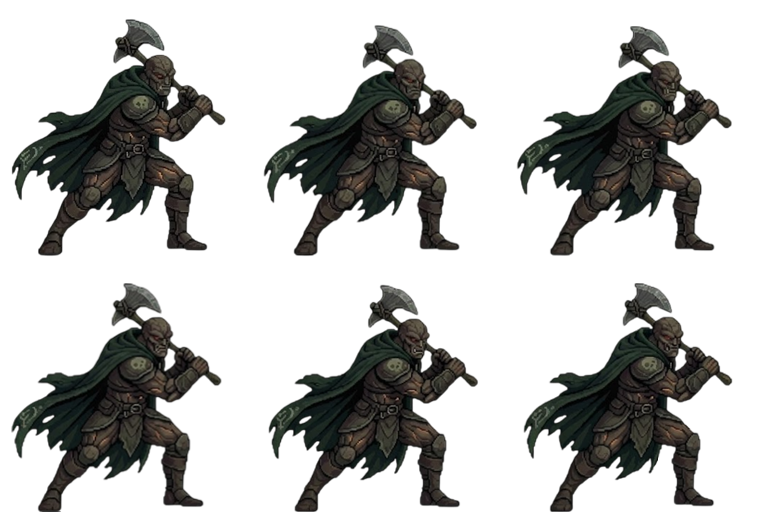
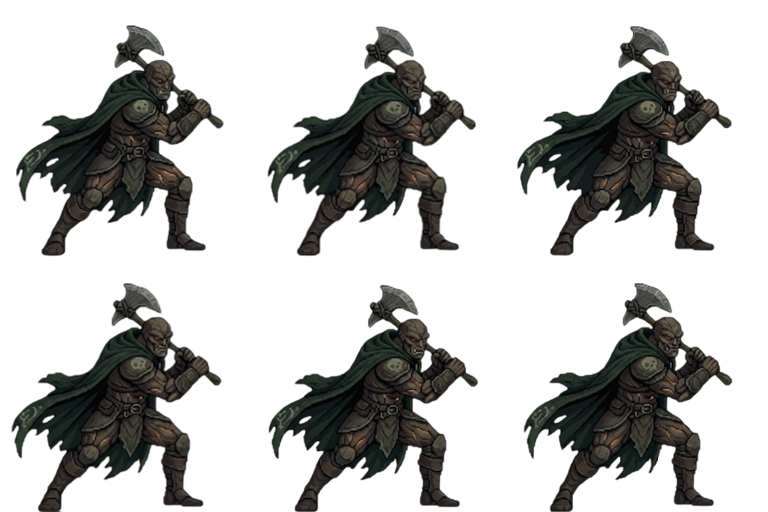
update

Changed region(s): [[0.0, 0.0312, 0.3125, 0.5], [0.3438, 0.0625, 0.625, 0.5], [0.5, 0.0312, 0.5312, 0.0625]]

diff --git a/src/scenes/BattleScene.ts b/src/scenes/BattleScene.ts
@@ -2753,9 +2753,6 @@ private handleTaintedSkill() {
 
   const weaknessText = this.getEnemyWeaknessText();
 
-  this.animatePlayerAttack('skill');
-  this.damageEnemy(damage);
-
   this.taintedCorruptionTurns = Math.max(this.taintedCorruptionTurns, 2);
   this.taintedCorruptionDamageBonus = Math.max(this.taintedCorruptionDamageBonus, 0.12);
   this.taintedCorruptionJustApplied = true;
@@ -2768,7 +2765,10 @@ private handleTaintedSkill() {
       ? `Проклятый рывок!\nСкверна усиливает удар.\nТы теряешь ${hpCost} HP и наносишь ${damage} урона.${weaknessText}${corruptionText}`
       : `Проклятый рывок!\nТы теряешь ${hpCost} HP и наносишь ${damage} урона.${weaknessText}${corruptionText}`;
 
-  this.afterPlayerAttack(playerActionText);
+  this.animatePlayerAttack('skill', () => {
+    this.damageEnemy(damage);
+    this.afterPlayerAttack(playerActionText);
+  });
 }
 
 private handleStonebornSkill() {
@@ -2856,9 +2856,6 @@ private handleDemonSkill() {
 
   const weaknessText = this.getEnemyWeaknessText();
 
-  this.animatePlayerAttack('skill');
-  this.damageEnemy(damage);
-
   this.demonHellfireBurnTurns = Math.max(this.demonHellfireBurnTurns, 2);
   this.demonHellfireBurnDamage = Math.max(
     this.demonHellfireBurnDamage,
@@ -2873,7 +2870,10 @@ private handleDemonSkill() {
       ? `Кровавое пламя!\nДемон теряет ${hpCost} HP и наносит ${damage} урона.${weaknessText}\nНизкое HP усилило пламя.${burnText}`
       : `Кровавое пламя!\nДемон теряет ${hpCost} HP и наносит ${damage} урона.${weaknessText}${burnText}`;
 
-  this.afterPlayerAttack(playerActionText);
+  this.animatePlayerAttack('skill', () => {
+    this.damageEnemy(damage);
+    this.afterPlayerAttack(playerActionText);
+  });
 }
   private handlePowerAttack() {
     if (this.isBattleEnded || this.isBusy) {
@@ -2914,14 +2914,14 @@ private handleDemonSkill() {
     const finalDamage = isCrit ? Math.floor(damage * this.getPlayerCritMultiplier(1.5)) : damage;
     const treeCritText = this.applyCriticalTreeEffects(isCrit, finalDamage);
 
-    this.animatePlayerAttack('power');
-    this.damageEnemy(finalDamage);
-
     const playerActionText = isCrit
       ? `Критический сильный удар! Ты наносишь ${finalDamage} урона.${treeCritText}`
       : `Ты наносишь сильный удар на ${finalDamage} урона.`;
 
-    this.afterPlayerAttack(playerActionText);
+    this.animatePlayerAttack('power', () => {
+      this.damageEnemy(finalDamage);
+      this.afterPlayerAttack(playerActionText);
+    });
   }
 
   private handleDefend() {
@@ -5187,8 +5187,9 @@ private renderEnemyEffectChips() {
     };
   }
 
-  private async playPlayerAttackAnimation(kind: 'normal' | 'power' | 'skill' = 'normal') {
+  private async playPlayerAttackAnimation(kind: 'normal' | 'power' | 'skill' = 'normal', onImpact?: () => void) {
     if (!this.playerCard || !this.enemyCard || this.isBattleEnded || this.combatAnimationLocked) {
+      onImpact?.();
       return;
     }
 
@@ -5208,6 +5209,60 @@ private renderEnemyEffectChips() {
       this.stonebornSprite.once(Phaser.Animations.Events.ANIMATION_COMPLETE, () => {
         this.stonebornSprite?.play('stoneborn_idle');
       });
+
+      const teleportLocalX = enemyBase.x - playerBase.x - 25;
+
+      this.tweens.add({
+        targets: this.playerCard,
+        angle: kind === 'power' ? 3 : 2,
+        duration: 80,
+        yoyo: true,
+        ease: 'Sine.easeInOut',
+      });
+
+      await new Promise<void>(resolve => {
+        this.tweens.add({
+          targets: this.stonebornSprite,
+          x: teleportLocalX,
+          duration: 80,
+          ease: 'Cubic.easeIn',
+          onComplete: () => resolve(),
+        });
+      });
+
+      if (this.isBattleEnded) {
+        this.combatAnimationLocked = false;
+        onImpact?.();
+        return;
+      }
+
+      onImpact?.();
+      this.createImpactFlash(this.enemyCard.x - 12, this.enemyCard.y - 34, kind === 'skill' ? 0xc084fc : kind === 'power' ? 0xff9a3d : 0xf0d58a);
+      this.tweens.add({
+        targets: this.enemyCard,
+        x: enemyBase.x + (kind === 'power' ? 18 : 12),
+        duration: 70,
+        yoyo: true,
+        ease: 'Sine.easeOut',
+        onComplete: () => {
+          this.enemyCard?.setPosition(enemyBase.x, enemyBase.y);
+        },
+      });
+
+      await new Promise<void>(resolve => {
+        this.tweens.add({
+          targets: this.stonebornSprite,
+          x: 0,
+          duration: 130,
+          ease: 'Cubic.easeOut',
+          onComplete: () => {
+            this.combatAnimationLocked = false;
+            resolve();
+          },
+        });
+      });
+
+      return;
     }
 
     const dashDistance = kind === 'power' ? 40 : kind === 'skill' ? 34 : 30;
@@ -5227,9 +5282,11 @@ private renderEnemyEffectChips() {
 
     if (this.isBattleEnded) {
       this.combatAnimationLocked = false;
+      onImpact?.();
       return;
     }
 
+    onImpact?.();
     this.createImpactFlash(this.enemyCard.x - 12, this.enemyCard.y - 34, kind === 'skill' ? 0xc084fc : kind === 'power' ? 0xff9a3d : 0xf0d58a);
     this.tweens.add({
       targets: this.enemyCard,
@@ -5369,11 +5426,12 @@ private renderEnemyEffectChips() {
     this.createImpactFlash(base.x, base.y - 40, 0xc084fc, 0.16);
   }
 
-  private animatePlayerAttack(kind: 'normal' | 'power' | 'skill' = 'normal') {
-    void this.playPlayerAttackAnimation(kind)
+  private animatePlayerAttack(kind: 'normal' | 'power' | 'skill' = 'normal', onImpact?: () => void) {
+    void this.playPlayerAttackAnimation(kind, onImpact)
       .catch(error => {
         console.warn('Player attack animation failed:', error);
         this.combatAnimationLocked = false;
+        onImpact?.();
       });
   }
 
@@ -5540,14 +5598,14 @@ private renderEnemyEffectChips() {
       ? '\nГлубинный выпад пробил часть защиты врага.'
       : '';
 
-    this.animatePlayerAttack('normal');
-    this.damageEnemy(critDamage);
-
     const playerActionText = isCrit
       ? `Критический выпад копьём! Ты наносишь ${critDamage} урона.${pierceText}${weaknessText}${treeCritText}`
       : `Ты наносишь глубинный выпад копьём: ${critDamage} урона.${pierceText}${weaknessText}`;
 
-    this.afterPlayerAttack(playerActionText);
+    this.animatePlayerAttack('normal', () => {
+      this.damageEnemy(critDamage);
+      this.afterPlayerAttack(playerActionText);
+    });
   }
 
   private handleTridentAttack() {
@@ -5578,14 +5636,14 @@ private renderEnemyEffectChips() {
       ? '\nХватка чёрной воды: следующая атака героя нанесёт на 10% больше урона.'
       : '';
 
-    this.animatePlayerAttack('power');
-    this.damageEnemy(finalDamage);
-
     const playerActionText = isCrit
       ? `Критический удар трезубцем! Ты наносишь ${finalDamage} урона.${markText}${weaknessText}${treeCritText}`
       : `Ты пронзаешь врага трезубцем: ${finalDamage} урона.${markText}${weaknessText}`;
 
-    this.afterPlayerAttack(playerActionText);
+    this.animatePlayerAttack('power', () => {
+      this.damageEnemy(finalDamage);
+      this.afterPlayerAttack(playerActionText);
+    });
   }
 
 
@@ -5611,14 +5669,14 @@ private renderEnemyEffectChips() {
 Преимущество меча: враг крупнее, урон +${swordBonus.bonusPercent}%.`
       : '';
 
-    this.animatePlayerAttack('power');
-    this.damageEnemy(finalDamage);
-
     const playerActionText = isCrit
       ? `Критическая атака мечом! Ты наносишь ${finalDamage} урона.${swordBonusText}${weaknessText}${treeCritText}`
       : `Ты наносишь удар мечом: ${finalDamage} урона.${swordBonusText}${weaknessText}`;
 
-    this.afterPlayerAttack(playerActionText);
+    this.animatePlayerAttack('power', () => {
+      this.damageEnemy(finalDamage);
+      this.afterPlayerAttack(playerActionText);
+    });
   }
 
   private handleDaggerAttack() {
@@ -5697,37 +5755,38 @@ ${daggerTreeCritTexts.join('\n')}`
         return;
       }
 
-      this.animatePlayerAttack('normal');
-      this.damageEnemy(hit.damage);
+      this.animatePlayerAttack('normal', () => {
+        this.damageEnemy(hit.damage);
 
-      totalDamage += hit.damage;
+        totalDamage += hit.damage;
 
-      const healedHp = this.tryApplyDaggerLifesteal(hit.damage);
+        const healedHp = this.tryApplyDaggerLifesteal(hit.damage);
 
-      if (healedHp > 0) {
-        totalHeal += healedHp;
-        lifestealProcCount += 1;
-        lifestealHealAmounts.push(healedHp);
-      }
-
-      if (hit.isCrit) {
-        critCount += 1;
-
-        if (hit.treeCritText) {
-          daggerTreeCritTexts.push(hit.treeCritText);
+        if (healedHp > 0) {
+          totalHeal += healedHp;
+          lifestealProcCount += 1;
+          lifestealHealAmounts.push(healedHp);
         }
-      }
 
-      this.updateTexts();
+        if (hit.isCrit) {
+          critCount += 1;
 
-      if (this.enemy.hp <= 0) {
-        finishDaggerAttack();
-        return;
-      }
+          if (hit.treeCritText) {
+            daggerTreeCritTexts.push(hit.treeCritText);
+          }
+        }
 
-      if (index === hits.length - 1) {
-        finishDaggerAttack();
-      }
+        this.updateTexts();
+
+        if (this.enemy.hp <= 0) {
+          finishDaggerAttack();
+          return;
+        }
+
+        if (index === hits.length - 1) {
+          finishDaggerAttack();
+        }
+      });
     });
   });
 }
@@ -5767,9 +5826,6 @@ ${daggerTreeCritTexts.join('\n')}`
 
    const weaknessText = this.getEnemyWeaknessText();
 
-   this.animatePlayerAttack('normal');
-   this.damageEnemy(finalDamage);
-
    let playerActionText = isCrit
      ? `Критический рубящий удар топором! Ты наносишь ${finalDamage} урона.${weaknessText}${treeCritText}`
      : `Топор наносит тяжёлый рубящий удар: ${finalDamage} урона.${weaknessText}`;
@@ -5778,7 +5834,10 @@ ${daggerTreeCritTexts.join('\n')}`
      playerActionText += '\nБонус топора: враг в броне, удар пробивает защиту.';
    }
 
-   this.afterPlayerAttack(playerActionText);
+   this.animatePlayerAttack('normal', () => {
+     this.damageEnemy(finalDamage);
+     this.afterPlayerAttack(playerActionText);
+   });
   }
 
   private handleKatanaAttack() {
@@ -5803,14 +5862,14 @@ ${daggerTreeCritTexts.join('\n')}`
 
     const weaknessText = this.getEnemyWeaknessText();
 
-    this.animatePlayerAttack('power');
-    this.damageEnemy(finalDamage);
-
     const playerActionText = isCrit
       ? `Катана наносит точный критический разрез: ${finalDamage} урона.${weaknessText}\nВраг начинает кровоточить.${treeCritText}`
       : `Катана рассекает врага: ${finalDamage} урона.${weaknessText}\nВраг начинает кровоточить.`;
 
-    this.afterPlayerAttack(playerActionText);
+    this.animatePlayerAttack('power', () => {
+      this.damageEnemy(finalDamage);
+      this.afterPlayerAttack(playerActionText);
+    });
   }
 
   private handleHammerAttack() {
@@ -5835,10 +5894,6 @@ ${daggerTreeCritTexts.join('\n')}`
 
     const weaknessText = this.getEnemyWeaknessText();
 
-    this.animatePlayerAttack('power');
-    this.damageEnemy(finalDamage);
-    this.shakeBattle(0.008, 220);
-
     let playerActionText = isCrit
       ? `Критический удар молотом сотрясает арену: ${finalDamage} урона.${weaknessText}${treeCritText}`
       : `Молот обрушивается на врага: ${finalDamage} урона.${weaknessText}`;
@@ -5847,8 +5902,10 @@ ${daggerTreeCritTexts.join('\n')}`
       playerActionText += '\nВраг оглушён.';
     }
 
-    this.afterPlayerAttack(playerActionText, {
-      skipEnemyTurn: isStunned,
+    this.animatePlayerAttack('power', () => {
+      this.damageEnemy(finalDamage);
+      this.shakeBattle(0.008, 220);
+      this.afterPlayerAttack(playerActionText, { skipEnemyTurn: isStunned });
     });
   }
 